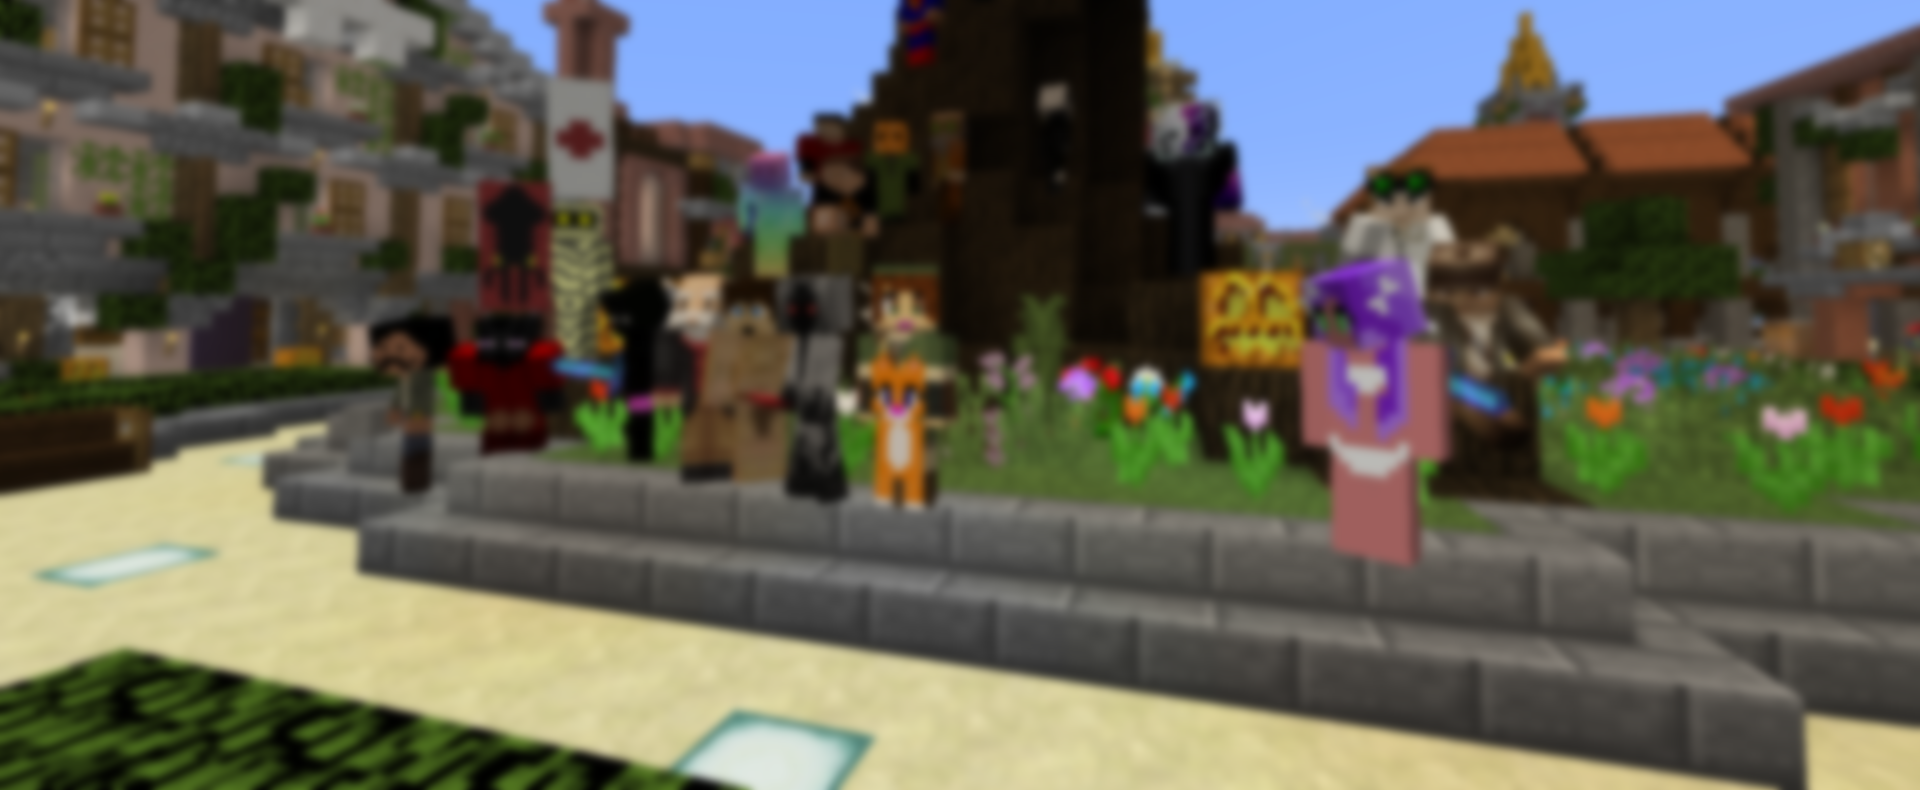
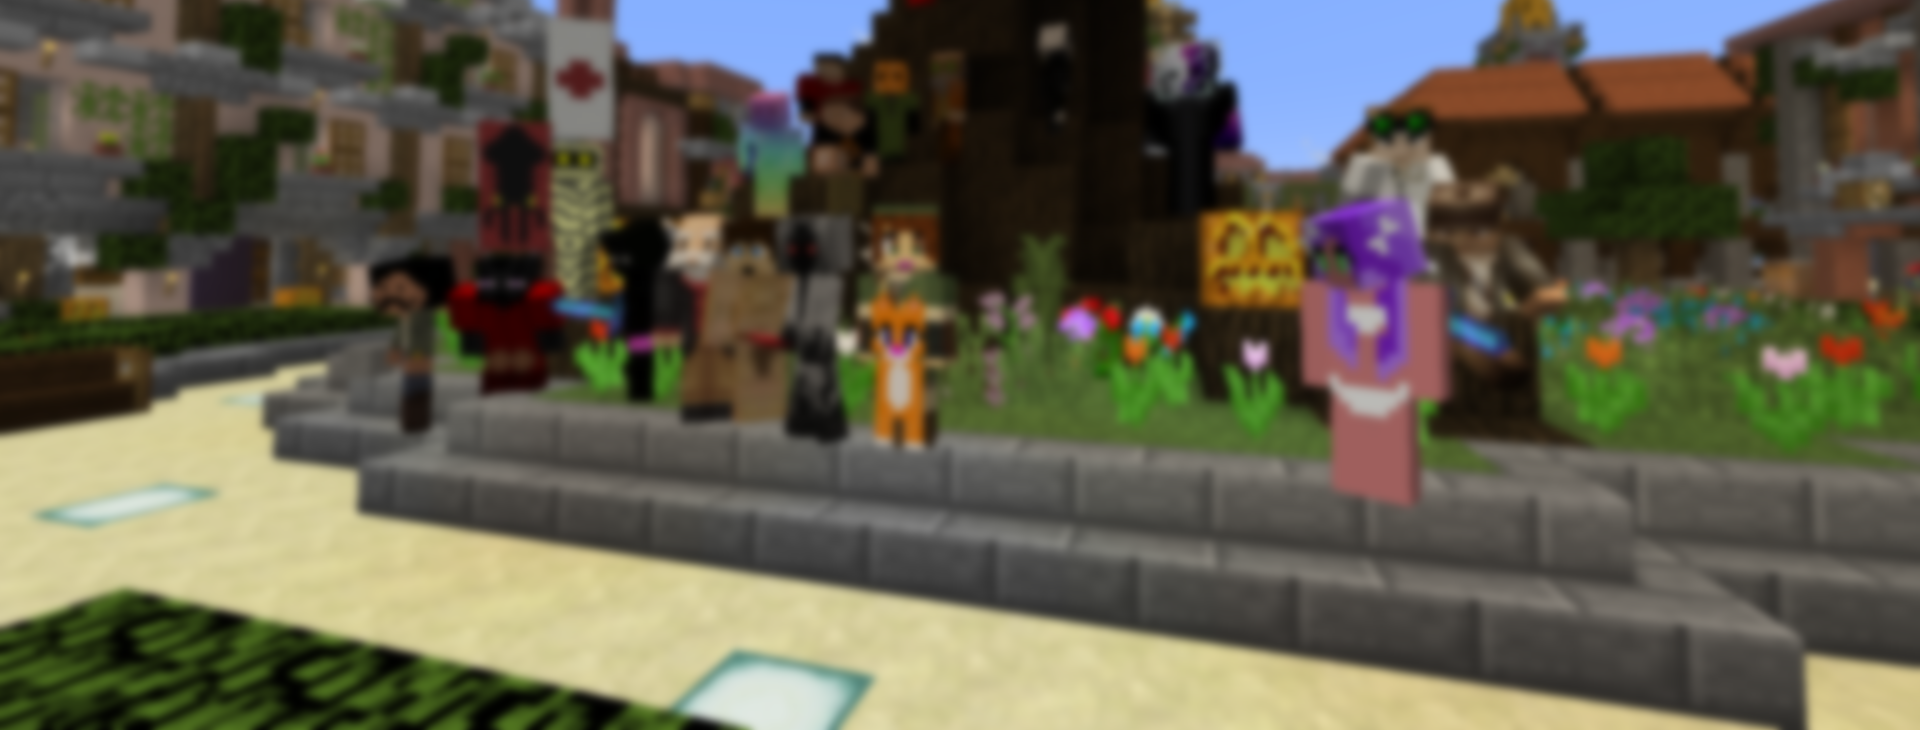
Amélioration de l'en-tête : image de fond en fond, plus de texte en position absolue, recadrage de l'image.

diff --git a/css/zcraft.css b/css/zcraft.css
@@ -47,7 +47,16 @@ body {
 
 
 #main-nav {
+    width:auto;
     border-bottom: solid 1px white;
+}
+
+#main-nav::before, #main-nav::after {
+    display: table;
+    content: " ";
+}
+#main-nav::after {
+    clear: both;
 }
 
 #main-nav > ul > li > a {
@@ -87,37 +96,6 @@ body {
 }
 
 
-/* HOMEPAGE HEADER
--------------------------------------------------- */
-
-.homepage-header {
-    height: 500px;
-    margin-bottom: 60px;
-}
-
-.homepage-header-caption {
-    position: absolute;
-    right: 15%;
-    left: 15%;
-    z-index: 10;
-    padding-top: 100px;
-    padding-bottom: 20px;
-    color: #fff;
-    text-align: center;
-    text-shadow: 0 0 2em rgba(26, 26, 26, 0.84), 0 0 2em rgb(0, 0, 0), 0 0 2em rgb(0, 0, 0);
-}
-
-.homepage-header > img {
-    position: absolute;
-    top: 0;
-    left: 0;
-
-    height: 500px;
-    width: 100%;
-    background-color: #fff;
-}
-
-
 /* Sub-menus */
 
 ul.navbar-nav > li:hover {
@@ -143,6 +121,37 @@ ul.navbar-nav > li:hover > ul > li > a:hover {
     color: #262626 !important;
     background-color: #f5f5f5 !important;
     text-decoration: none;
+}
+
+
+/* HOMEPAGE HEADER
+-------------------------------------------------- */
+
+.homepage-header {
+    height: 500px;
+    margin-bottom: 60px;
+}
+
+.homepage-header-caption {
+    padding-top: 100px;
+    padding-bottom: 20px;
+    color: white;
+    text-align: center;
+    text-shadow: 0 0 2em rgba(26, 26, 26, 0.84), 0 0 2em rgb(0, 0, 0), 0 0 2em rgb(0, 0, 0);
+}
+
+#homepage-header-background {
+    position: absolute;
+    top: 0;
+    left: 0;
+
+    width: 100%;
+    height: 400px;
+    overflow: hidden;
+    z-index: -1000;
+
+    background: url('../img/accueil-place-flou.png') center top;
+    background-size: cover;
 }
 
 
@@ -209,9 +218,9 @@ ul.navbar-nav > li:hover > ul > li > a:hover {
 }
 
 .homepage-online .minecraft-dirt-large-area {
-    min-height: 100px;
     font-size: 1.15em;
 }
+
 .homepage-online .minecraft-dirt-large-area .online-title {
     width: 50%;
     margin: auto auto 10px;

diff --git a/index.html b/index.html
@@ -32,15 +32,9 @@
         <nav class="navbar nav nav-pills navbar-static-top">
             <div class="container">
                 <div class="navbar-header">
-                    <button type="button" class="navbar-toggle collapsed" data-toggle="collapse" data-target="#main-nav" aria-expanded="false" aria-controls="main-nav">
-                        <span class="sr-only">Ouvrir ou fermer la navigation</span>
-                        <span class="icon-bar"></span>
-                        <span class="icon-bar"></span>
-                        <span class="icon-bar"></span>
-                    </button>
                     <div class="navbar-brand brand" href=""><a href="#" id="main_logo"><img src="img/logo.png" alt="Zcraft" /></a></div>
                 </div>
-                <div id="main-nav" class="navbar-collapse collapseee">
+                <div id="main-nav">
                     <ul class="nav navbar-nav">
                         <li><a href="#">Accueil</a></li>
                         <li><a href="https://forum.zcraft.fr">Forum</a></li>
@@ -98,9 +92,9 @@
     </div>
 </div>
 
+<div id="homepage-header-background"></div>
 
 <div class="homepage-header">
-    <img src="img/accueil-place-flou.png" alt="Place centrale" />
     <div class="container">
         <div class="homepage-header-caption">
             <h1>Bienvenue sur Zcraft</h1>
